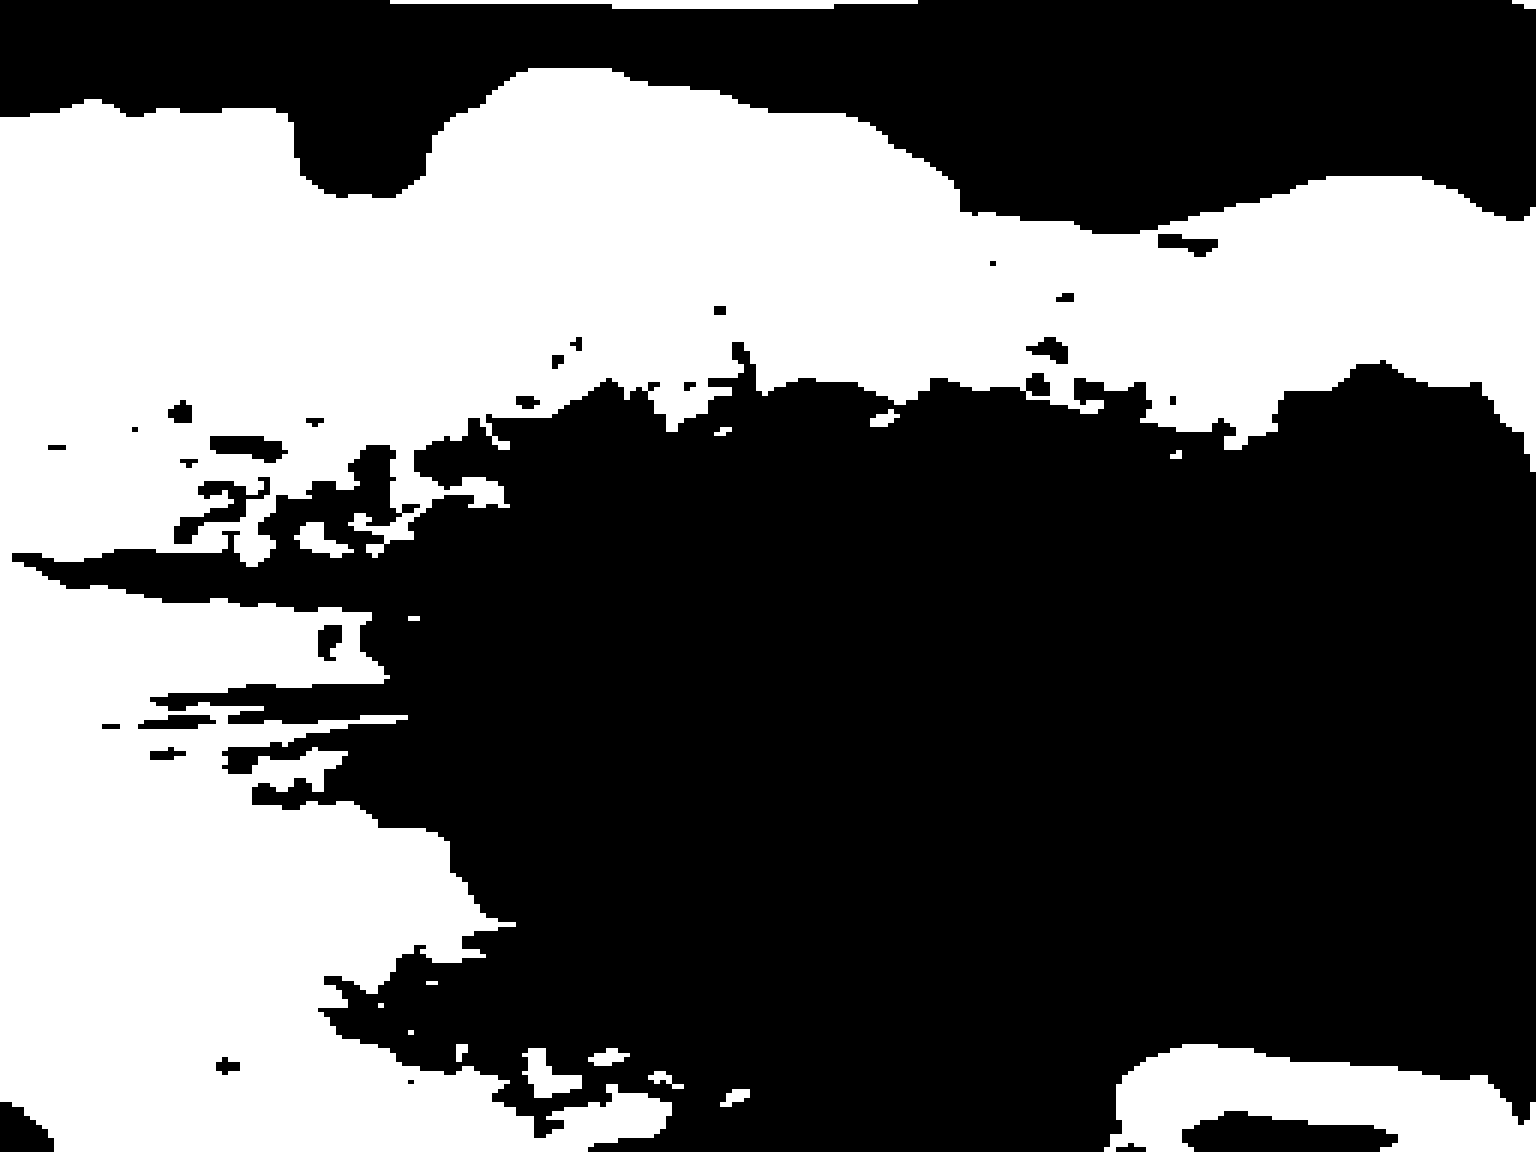
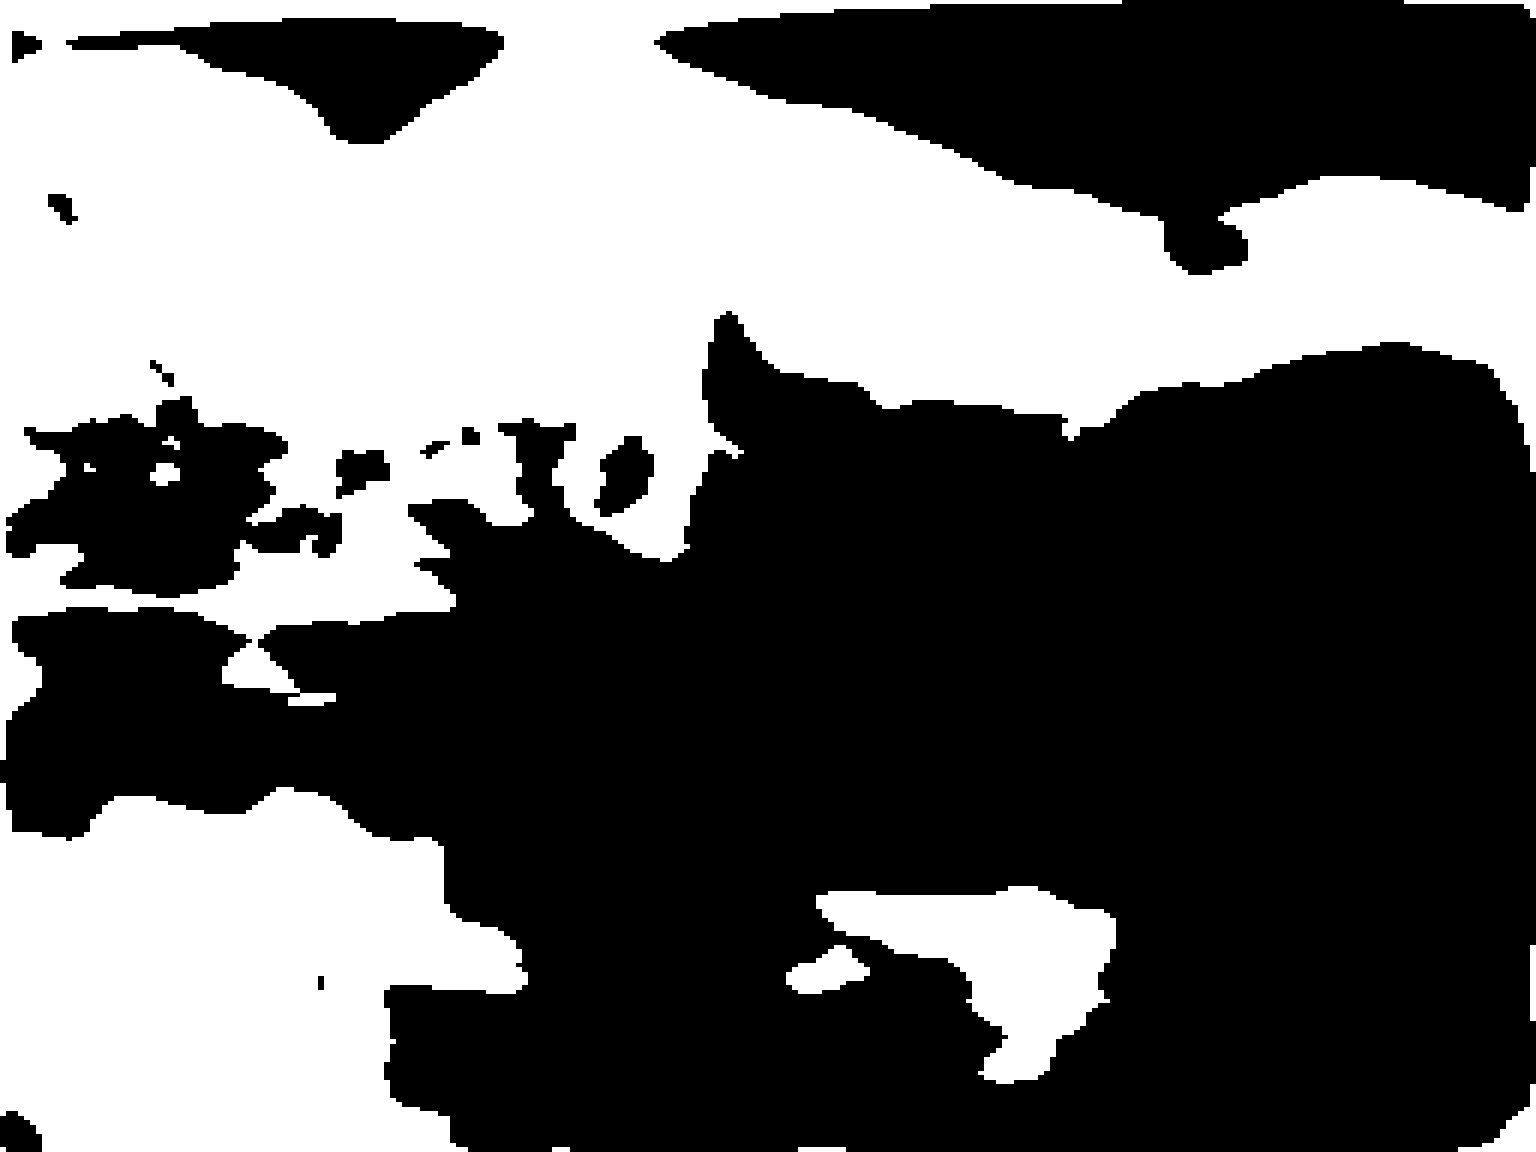
update preprocess method

diff --git a/preprocess.py b/preprocess.py
@@ -3,49 +3,149 @@ import numpy as np
 import os
 from torchvision import transforms
 
-def enhance_water_features(image):
-    # Step 1: Contrast and brightness enhancement (preserve natural colors)
-    lab = cv2.cvtColor(image, cv2.COLOR_BGR2LAB)
-    clahe = cv2.createCLAHE(clipLimit=2.0, tileGridSize=(8, 8))
-    lab[:, :, 0] = clahe.apply(lab[:, :, 0])
-    enhanced_image = cv2.cvtColor(lab, cv2.COLOR_LAB2BGR)
+import cv2
+import numpy as np
+import scipy.ndimage as ndi
 
-    def adjust_gamma(image, gamma=1.2):
-        inv_gamma = 1.0 / gamma
-        table = np.array([((i / 255.0) ** inv_gamma) * 255 for i in np.arange(0, 256)]).astype("uint8")
-        return cv2.LUT(image, table)
-
-    enhanced_image = adjust_gamma(enhanced_image)
-
-    # Step 2: Extract water-relevant channels
-    hsv = cv2.cvtColor(enhanced_image, cv2.COLOR_BGR2HSV)
-    lab = cv2.cvtColor(enhanced_image, cv2.COLOR_BGR2LAB)
-
-    # Water-related features
-    saturation = hsv[:, :, 1]  # High saturation for water
-    blue_channel = lab[:, :, 2]  # Blue-ish tones in 'b' channel of Lab space
-
-    # Normalize blue channel and saturation
-    blue_channel_normalized = cv2.normalize(blue_channel, None, 0, 255, cv2.NORM_MINMAX)
-    saturation_normalized = cv2.normalize(saturation, None, 0, 255, cv2.NORM_MINMAX)
-
-    # Step 3: Edge detection (Laplacian)
-    laplacian_edges = cv2.Laplacian(saturation, cv2.CV_64F)
-    laplacian_edges = cv2.convertScaleAbs(laplacian_edges)
-
-    # Step 4: Blend features while preserving original colors
-    # Combine blue channel and saturation as a mask
-    water_mask = cv2.addWeighted(blue_channel_normalized, 0.5, saturation_normalized, 0.5, 0)
-
-    # Enhance original image using the water mask
-    water_mask_colored = cv2.cvtColor(water_mask, cv2.COLOR_GRAY2BGR)
-    enhanced_with_mask = cv2.addWeighted(enhanced_image, 0.8, water_mask_colored, 0.2, 0)
-
-    # Add edge enhancement
-    laplacian_colored = cv2.cvtColor(laplacian_edges, cv2.COLOR_GRAY2BGR)
-    final_combined = cv2.addWeighted(enhanced_with_mask, 0.9, laplacian_colored, 0.1, 0)
-
-    return final_combined
+def enhance_water_features(image, debug=False):
+    """
+    Advanced color-preserving preprocessing pipeline for water surface segmentation.
+    
+    Parameters:
+    -----------
+    image : numpy.ndarray
+        Input image opened with cv2.imread()
+    debug : bool, optional
+        If True, will display intermediate processing steps
+    
+    Returns:
+    --------
+    tuple
+        (enhanced_image, enhanced_mask)
+        enhanced_image: Color image with enhanced features
+        enhanced_mask: Grayscale segmentation-ready mask
+    """
+    # Ensure input is a valid image
+    if image is None or image.size == 0:
+        raise ValueError("Invalid input image")
+    
+    # Convert BGR to RGB (cv2 uses BGR by default)
+    img_rgb = cv2.cvtColor(image, cv2.COLOR_BGR2RGB)
+    
+    # Convert to different color spaces
+    img_hsv = cv2.cvtColor(image, cv2.COLOR_BGR2HSV)
+    img_lab = cv2.cvtColor(image, cv2.COLOR_BGR2LAB)
+    
+    # Separate channels
+    h, s, v = cv2.split(img_hsv)
+    l, a, b = cv2.split(img_lab)
+    
+    # Debug: original image
+    if debug:
+        plt.figure(figsize=(15,10))
+        plt.subplot(3,3,1)
+        plt.title('Original Image')
+        plt.imshow(img_rgb)
+        plt.axis('off')
+    
+    # 1. Color-Aware Contrast Enhancement
+    # CLAHE on Value and Lightness channels
+    clahe = cv2.createCLAHE(clipLimit=2.0, tileGridSize=(8,8))
+    v_enhanced = clahe.apply(v)
+    l_enhanced = clahe.apply(l)
+    
+    # Debug: CLAHE enhanced channels
+    if debug:
+        plt.subplot(3,3,2)
+        plt.title('CLAHE V Channel')
+        plt.imshow(v_enhanced, cmap='gray')
+        plt.axis('off')
+        
+        plt.subplot(3,3,3)
+        plt.title('CLAHE L Channel')
+        plt.imshow(l_enhanced, cmap='gray')
+        plt.axis('off')
+    
+    # 2. Color-Based Water Surface Detection
+    # Use color differences and saturation to highlight water
+    water_mask = np.zeros_like(s)
+    
+    # Adaptive thresholding on saturation and color channels
+    _, sat_thresh = cv2.threshold(s, 0, 255, cv2.THRESH_BINARY + cv2.THRESH_OTSU)
+    _, blue_thresh = cv2.threshold(b, 0, 255, cv2.THRESH_BINARY + cv2.THRESH_OTSU)
+    
+    # Combine thresholds
+    water_mask = cv2.bitwise_and(sat_thresh, blue_thresh)
+    
+    # Debug: color-based masks
+    if debug:
+        plt.subplot(3,3,4)
+        plt.title('Saturation Threshold')
+        plt.imshow(sat_thresh, cmap='gray')
+        plt.axis('off')
+        
+        plt.subplot(3,3,5)
+        plt.title('Blue Channel Threshold')
+        plt.imshow(blue_thresh, cmap='gray')
+        plt.axis('off')
+        
+        plt.subplot(3,3,6)
+        plt.title('Combined Water Mask')
+        plt.imshow(water_mask, cmap='gray')
+        plt.axis('off')
+    
+    # 3. Gradient and Edge Enhancement
+    # Sobel operators on enhanced lightness channel
+    sobelx = cv2.Sobel(l_enhanced, cv2.CV_64F, 1, 0, ksize=3)
+    sobely = cv2.Sobel(l_enhanced, cv2.CV_64F, 0, 1, ksize=3)
+    
+    # Compute gradient magnitude
+    gradient_magnitude = np.sqrt(sobelx**2 + sobely**2)
+    gradient_magnitude = cv2.normalize(gradient_magnitude, None, 0, 255, cv2.NORM_MINMAX, dtype=cv2.CV_8U)
+    
+    # 4. Morphological Operations
+    # Enhance water surface features
+    kernel = np.ones((3,3), np.uint8)
+    water_mask_processed = cv2.morphologyEx(water_mask, cv2.MORPH_CLOSE, kernel)
+    water_mask_processed = cv2.morphologyEx(water_mask_processed, cv2.MORPH_OPEN, kernel)
+    
+    # 5. Combine Masks
+    enhanced_mask = cv2.addWeighted(
+        water_mask_processed, 0.6,
+        gradient_magnitude, 0.4,
+        0
+    )
+    
+    # Normalize mask
+    enhanced_mask = cv2.normalize(
+        enhanced_mask, 
+        None, 
+        0, 255, 
+        cv2.NORM_MINMAX, 
+        dtype=cv2.CV_8U
+    )
+    
+    # 6. Color-Preserved Enhancement
+    # Reconstruct enhanced color image
+    img_hsv_enhanced = cv2.merge([h, s, v_enhanced])
+    img_rgb_enhanced = cv2.cvtColor(img_hsv_enhanced, cv2.COLOR_HSV2RGB)
+    
+    # Debug: final results
+    if debug:
+        plt.subplot(3,3,7)
+        plt.title('Enhanced Mask')
+        plt.imshow(enhanced_mask, cmap='gray')
+        plt.axis('off')
+        
+        plt.subplot(3,3,8)
+        plt.title('Enhanced Color Image')
+        plt.imshow(img_rgb_enhanced)
+        plt.axis('off')
+        
+        plt.tight_layout()
+        plt.show()
+    
+    return img_rgb_enhanced
 
 def preprocess_for_water(image_path):
     """

diff --git a/train.py b/train.py
@@ -41,13 +41,13 @@ class WaterSegmentationDataset(Dataset):
             if random.random() > 0.5:
                 image = F.vflip(image)
                 mask = F.vflip(mask)
-            if random.random() > 0.5:
-                if random.random() > 0.5:
-                    image = F.rotate(image, angle=30)
-                    mask = F.rotate(mask, angle=30)
-                else:
-                    image = F.rotate(image, angle=-30)
-                    mask = F.rotate(mask, angle=-30)
+            # if random.random() > 0.5:
+            #     if random.random() > 0.5:
+            #         image = F.rotate(image, angle=30)
+            #         mask = F.rotate(mask, angle=30)
+            #     else:
+            #         image = F.rotate(image, angle=-30)
+            #         mask = F.rotate(mask, angle=-30)
         
         # Normalize mask to 0 and 1
         mask = (mask > 0.5).float()
@@ -63,7 +63,7 @@ class BCEDiceLoss(nn.Module):
         dice_weight (float): Weight for Dice loss (default: 1.0)
         smooth (float): Small smoothing constant to avoid division by zero (default: 1e-7)
     """
-    def __init__(self, weight=1.0, dice_weight=1.0, smooth=1e-7):
+    def __init__(self, weight=1.0, dice_weight=1.0, smooth=1e-8):
         super(BCEDiceLoss, self).__init__()
         self.weight = weight
         self.dice_weight = dice_weight
@@ -101,63 +101,47 @@ class BCEDiceLoss(nn.Module):
         return combined_loss
 
 
-class IoULoss(nn.Module):
-    def __init__(self, 
-                 smooth=1e-6, 
-                 reduction='mean', 
-                 threshold=0.5,
-                 alpha=1.0):
+class DiceLoss(nn.Module):
+    """
+    Combined Binary Cross-Entropy and Soft Dice Loss for image segmentation.
+    
+    Args:
+        weight (float): Weight for BCE loss (default: 1.0)
+        dice_weight (float): Weight for Dice loss (default: 1.0)
+        smooth (float): Small smoothing constant to avoid division by zero (default: 1e-7)
+    """
+    def __init__(self, weight=1.0, dice_weight=1.0, smooth=1e-8):
+        super(DiceLoss, self).__init__()
+        self.weight = weight
+        self.dice_weight = dice_weight
+        self.smooth = smooth
+    
+    def forward(self, inputs, targets):
         """
-        Differentiable Intersection over Union (IoU) Loss function
+        Compute combined BCE and Soft Dice Loss.
         
         Args:
-            smooth (float): Small value to prevent division by zero
-            reduction (str): 'mean', 'sum', or 'none'
-            threshold (float): Soft threshold for predictions
-            alpha (float): Focal loss-like parameter to adjust loss sensitivity
+            inputs (torch.Tensor): Model predictions (sigmoid output)
+            targets (torch.Tensor): Ground truth binary masks
+        
+        Returns:
+            torch.Tensor: Combined loss value
         """
-        super().__init__()
-        self.smooth = smooth
-        self.reduction = reduction
-        self.threshold = threshold
-        self.alpha = alpha
-    
-    def forward(self, pred, target):
-        # Ensure inputs are in the right shape
-        pred = pred.squeeze(1) if pred.dim() > target.dim() else pred
-        target = target.float()
         
-        # Use sigmoid to get soft probabilities (ensures gradient flow)
-        pred_sig = torch.sigmoid(pred)
+        # Soft Dice Loss
+        # Flatten predictions and targets
+        inputs_flat = inputs.view(-1)
+        targets_flat = targets.view(-1)
         
-        # Soft prediction using sigmoid and threshold
-        pred_soft = torch.where(
-            pred_sig > self.threshold, 
-            torch.ones_like(pred_sig), 
-            torch.zeros_like(pred_sig)
-        )
+        # Compute intersection and union
+        intersection = (inputs_flat * targets_flat).sum()
         
-        # Compute intersection and union with soft predictions
-        intersection = torch.sum(pred_soft * target)
-        total_area = torch.sum(pred_soft) + torch.sum(target)
+        # Soft Dice Loss calculation
+        dice_loss = 1 - (2. * intersection + self.smooth) / \
+                    (inputs_flat.sum() + targets_flat.sum() + self.smooth)
         
-        # IoU calculation with smooth term
-        iou = (intersection + self.smooth) / (total_area - intersection + self.smooth)
         
-        # Convert to loss (we want to minimize)
-        # Use raw sigmoid predictions to maintain gradient
-        focal_weight = torch.abs(target - pred_sig) ** self.alpha
-        
-        # IoU loss based on soft predictions
-        loss = (1 - iou) * focal_weight
-        
-        # Apply reduction
-        if self.reduction == 'mean':
-            loss = torch.mean(loss)
-        elif self.reduction == 'sum':
-            loss = torch.sum(loss)
-        
-        return loss
+        return dice_loss
 
 # Training function
 def train_model(model, train_loader, criterion, optimizer, device, epoch):
@@ -240,7 +224,7 @@ def main():
     
     # Data transforms
     transform = transforms.Compose([
-        transforms.Resize((512, 512), interpolation=transforms.InterpolationMode.NEAREST_EXACT),
+        transforms.Resize((256, 256), interpolation=transforms.InterpolationMode.NEAREST_EXACT),
         transforms.ToTensor(),
         # transforms.Normalize(mean=[0.485, 0.456, 0.406], std=[0.229, 0.224, 0.225]),
     ])
@@ -272,9 +256,9 @@ def main():
     
     # Initialize model, criterion, and optimizer
     model = UNet().to(device)
-    criterion = BCEDiceLoss()
-    optimizer = optim.AdamW(model.parameters(), lr=1e-3, weight_decay=1e-5, amsgrad=True)
-    scheduler = torch.optim.lr_scheduler.ReduceLROnPlateau(optimizer=optimizer, mode='min', factor=0.5, patience=5)
+    criterion = DiceLoss()
+    optimizer = optim.AdamW(model.parameters(), lr=1e-3, amsgrad=True)
+    scheduler = torch.optim.lr_scheduler.ReduceLROnPlateau(optimizer=optimizer, mode='min', factor=0.1, patience=5)
 
     # Create checkpoint directory if it doesn't exist
     os.makedirs('checkpoint', exist_ok=True)

diff --git a/predict.py b/predict.py
@@ -18,7 +18,7 @@ def predict_images(model, input_dir, output_dir, device):
     
     # Define transforms
     transform = transforms.Compose([
-        transforms.Resize((512, 512), interpolation=transforms.InterpolationMode.NEAREST_EXACT),
+        transforms.Resize((256, 256), interpolation=transforms.InterpolationMode.NEAREST_EXACT),
         transforms.ToTensor(),
         # transforms.Normalize(mean=[0.485, 0.456, 0.406], std=[0.229, 0.224, 0.225]),
     ])
@@ -68,8 +68,8 @@ def main():
     print(f"Using device: {device}")
     
     # Paths
-    checkpoint_path = 'checkpoint/best_model.pth'  # Path to your checkpoint
-    # checkpoint_path = 'checkpoint/model_epoch_72.pth'
+    # checkpoint_path = 'checkpoint/best_model.pth'  # Path to your checkpoint
+    checkpoint_path = 'checkpoint/model_epoch_58.pth'
     input_dir = 'testing_dataset/preprocessed'  # Directory containing images to predict
     output_dir = 'testing_dataset/output'  # Directory to save predictions
     
